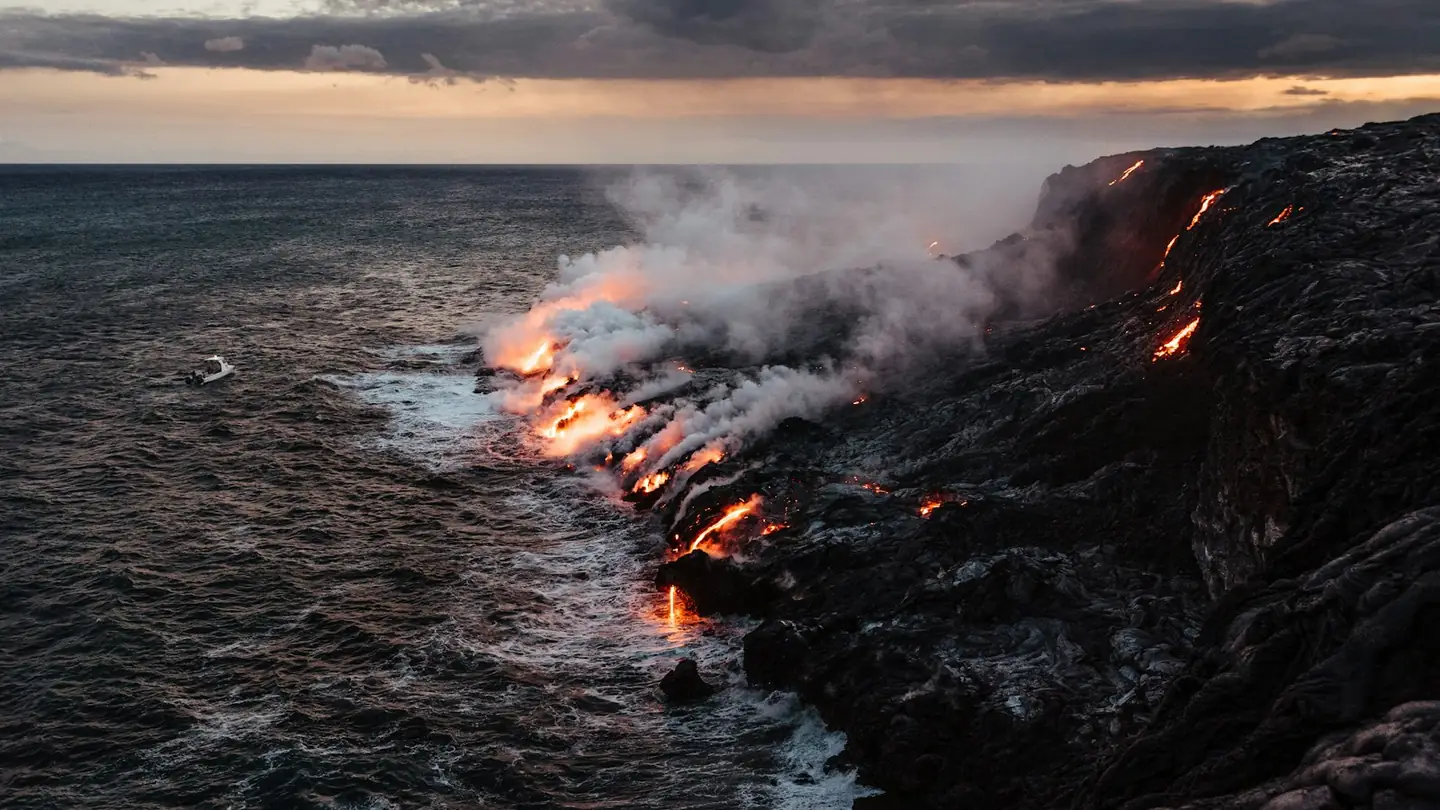
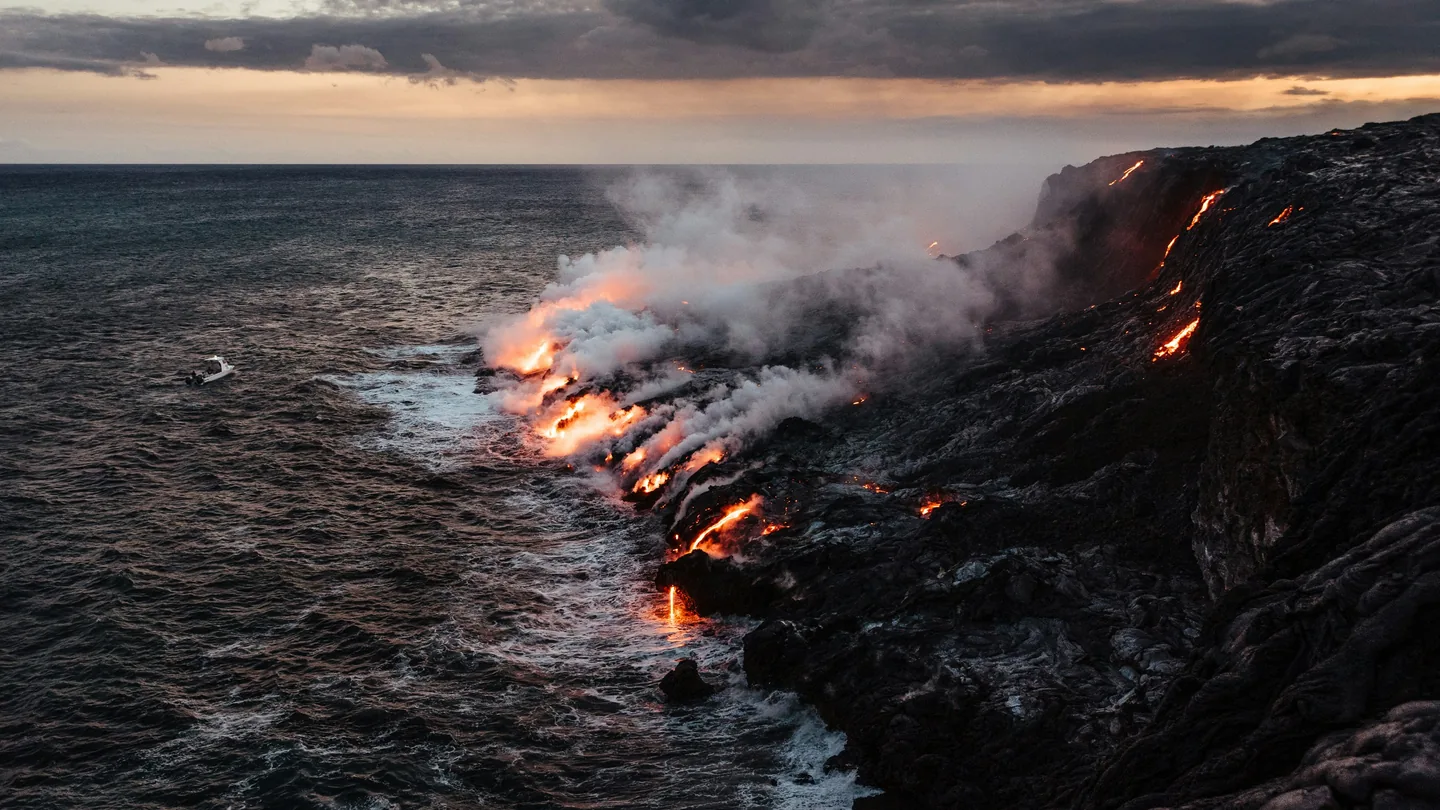
[Aumakua Defense] Sharpen the scenic photos and cut layout shift
Serve the same four Unsplash scenes at 2880px plus portrait phone crops, swap the copper mark and favicon for sized WebP files, and keep below-the-fold reveals and ember work off the idle path.

diff --git a/index.html b/index.html
@@ -7,9 +7,10 @@
   <meta name="robots" content="noindex">
   <title>Aumakua Defense</title>
   <meta name="description" content="Aumakua Defense. Where Ancient Protection Meets Modern Precision. Prototype storefront. Product names and prices have not been supplied. Photographs are labeled examples.">
-  <link rel="preload" as="image" href="assets/photos/hero-forest-1440.webp" imagesrcset="assets/photos/hero-forest-960.webp 960w, assets/photos/hero-forest-1440.webp 1440w, assets/photos/hero-forest-1920.webp 1920w" imagesizes="100vw">
+  <link rel="preload" as="image" href="assets/photos/hero-forest-phone.webp" media="(max-width: 759px)">
+  <link rel="preload" as="image" href="assets/photos/hero-forest-2880.webp" imagesrcset="assets/photos/hero-forest-1440.webp 1440w, assets/photos/hero-forest-1920.webp 1920w, assets/photos/hero-forest-2880.webp 2880w" imagesizes="200vw" media="(min-width: 760px)">
   <link rel="canonical" href="https://aumakuadefense.clientreview.co/index.html">
-  <link rel="icon" href="assets/logo/aumakua-mark-white.png">
+  <link rel="icon" href="assets/logo/favicon.png">
   <link rel="preconnect" href="https://fonts.googleapis.com">
   <link rel="preconnect" href="https://fonts.gstatic.com" crossorigin>
   <link href="https://fonts.googleapis.com/css2?family=Barlow:wght@400;500;600&family=Saira+Condensed:wght@500;600;700&display=swap" rel="stylesheet">
@@ -29,8 +30,14 @@
   <main id="main">
     <section class="hero hero-home">
       <div class="hero-layers">
-        <img class="hero-layer hero-layer-far" src="assets/photos/hero-forest-1440.webp" srcset="assets/photos/hero-forest-960.webp 960w, assets/photos/hero-forest-1440.webp 1440w, assets/photos/hero-forest-1920.webp 1920w" sizes="100vw" alt="" width="1440" height="810" fetchpriority="high" decoding="async">
-        <img class="hero-layer hero-layer-near" src="assets/photos/hero-pines-1440.webp" srcset="assets/photos/hero-pines-960.webp 960w, assets/photos/hero-pines-1440.webp 1440w, assets/photos/hero-pines-1920.webp 1920w" sizes="100vw" alt="" width="1440" height="810" fetchpriority="low" decoding="async">
+        <picture>
+          <source media="(max-width: 759px)" srcset="assets/photos/hero-forest-phone.webp" type="image/webp">
+          <img class="hero-layer hero-layer-far" src="assets/photos/hero-forest-1920.webp" srcset="assets/photos/hero-forest-1440.webp 1440w, assets/photos/hero-forest-1920.webp 1920w, assets/photos/hero-forest-2880.webp 2880w" sizes="200vw" alt="" width="2880" height="1620" fetchpriority="high" decoding="async">
+        </picture>
+        <picture>
+          <source media="(max-width: 759px)" srcset="assets/photos/hero-pines-phone.webp" type="image/webp">
+          <img class="hero-layer hero-layer-near" src="assets/photos/hero-pines-1920.webp" srcset="assets/photos/hero-pines-1440.webp 1440w, assets/photos/hero-pines-1920.webp 1920w, assets/photos/hero-pines-2880.webp 2880w" sizes="150vw" alt="" width="2880" height="1620" fetchpriority="low" decoding="async">
+        </picture>
         <div class="hero-overlay"></div>
       </div>
       <canvas class="hero-embers" id="hero-embers" aria-hidden="true"></canvas>
@@ -50,7 +57,10 @@
         </div>
         <div class="hero-mark">
           <div class="mark-frame">
-            <img src="assets/logo/aumakua-mark-copper.png" alt="">
+            <picture>
+              <source media="(max-width: 1023px)" srcset="assets/logo/aumakua-mark-copper-800.webp" type="image/webp">
+              <img src="assets/logo/aumakua-mark-copper.webp" srcset="assets/logo/aumakua-mark-copper-800.webp 800w, assets/logo/aumakua-mark-copper.webp 1932w" sizes="(min-width: 1200px) 70vw, 50vw" alt="" width="1932" height="1220" decoding="async">
+            </picture>
             <span class="mark-sheen" aria-hidden="true"></span>
           </div>
         </div>
@@ -64,7 +74,10 @@
     </div>
     <section class="room room-ink story reveal">
       <div class="story-bg" aria-hidden="true">
-        <img src="assets/photos/hawaii-ridge-960.webp" srcset="assets/photos/hawaii-ridge-960.webp 960w, assets/photos/hawaii-ridge-1440.webp 1440w" sizes="100vw" alt="" width="960" height="540" loading="lazy" decoding="async">
+        <picture>
+          <source media="(max-width: 759px)" srcset="assets/photos/hawaii-ridge-phone.webp" type="image/webp">
+          <img src="assets/photos/hawaii-ridge-1920.webp" srcset="assets/photos/hawaii-ridge-1440.webp 1440w, assets/photos/hawaii-ridge-1920.webp 1920w, assets/photos/hawaii-ridge-2880.webp 2880w" sizes="150vw" alt="" width="2880" height="1620" loading="lazy" decoding="async">
+        </picture>
       </div>
       <div class="story-shade" aria-hidden="true"></div>
       <div class="room-inner story-copy">
@@ -126,7 +139,10 @@
       </div>
     </section>
     <section class="gear-cta reveal">
-      <img class="gear-bg" src="assets/photos/lava-960.webp" srcset="assets/photos/lava-960.webp 960w, assets/photos/lava-1440.webp 1440w" sizes="100vw" alt="" width="960" height="540" loading="lazy" decoding="async">
+      <picture>
+        <source media="(max-width: 759px)" srcset="assets/photos/lava-phone.webp" type="image/webp">
+        <img class="gear-bg" src="assets/photos/lava-1920.webp" srcset="assets/photos/lava-1440.webp 1440w, assets/photos/lava-1920.webp 1920w, assets/photos/lava-2880.webp 2880w" sizes="150vw" alt="" width="2880" height="1620" loading="lazy" decoding="async">
+      </picture>
       <div class="gear-shade" aria-hidden="true"></div>
       <div class="room-inner">
         <p class="kicker">The shop</p>

diff --git a/js/layout.js b/js/layout.js
@@ -36,7 +36,7 @@
   header.innerHTML =
     '<div class="site-bar">' +
       '<a class="logo" href="index.html">' +
-        '<img class="logo-mark" src="assets/logo/aumakua-mark-copper.png" alt="Aumakua Defense">' +
+        '<img class="logo-mark" src="assets/logo/aumakua-mark-copper-320.webp" width="1932" height="1220" alt="Aumakua Defense">' +
         '<img class="logo-word" src="assets/logo/aumakua-wordmark-copper-2x.png" alt="">' +
       "</a>" +
       '<button class="nav-toggle" type="button" aria-expanded="false" aria-controls="site-nav">' + icon("menu") + '<span>Menu</span></button>' +
@@ -122,7 +122,7 @@
   function questionView() {
     gate.innerHTML =
       '<div class="age-card">' +
-        '<img src="assets/logo/aumakua-mark-copper.png" alt="Aumakua Defense">' +
+        '<img src="assets/logo/aumakua-mark-copper-800.webp" width="1932" height="1220" alt="Aumakua Defense">' +
         '<h2 id="age-title">You must be 21 or older to enter this site</h2>' +
         '<div class="age-actions">' +
           '<button type="button" class="btn" id="age-yes">I am 21 or older</button>' +
@@ -141,7 +141,7 @@
   function exitView() {
     gate.innerHTML =
       '<div class="age-card">' +
-        '<img src="assets/logo/aumakua-mark-copper.png" alt="Aumakua Defense">' +
+        '<img src="assets/logo/aumakua-mark-copper-800.webp" width="1932" height="1220" alt="Aumakua Defense">' +
         '<h2 id="age-title">Please come back when you are 21 or older</h2>' +
         '<p>This site is limited to visitors who are 21 or older. You can close this tab to leave.</p>' +
         '<div class="age-actions">' +
@@ -237,19 +237,27 @@
   }
   document.addEventListener("DOMContentLoaded", initReveal);
   setTimeout(function () {
+    function shown(el) {
+      if (!el || !el.getBoundingClientRect) return false;
+      var rect = el.getBoundingClientRect();
+      return rect.bottom > 0 && rect.top < window.innerHeight;
+    }
     if (window.ScrollTrigger) {
       window.ScrollTrigger.getAll().forEach(function (trigger) {
+        if (!shown(trigger.trigger)) return;
         if (trigger.animation) trigger.animation.progress(1);
         trigger.kill();
       });
     }
     Array.prototype.forEach.call(document.querySelectorAll(".reveal"), function (el) {
+      if (!shown(el)) return;
       el.classList.add("is-in");
       el.style.removeProperty("opacity");
       el.style.removeProperty("transform");
       el.style.removeProperty("visibility");
     });
     Array.prototype.forEach.call(document.querySelectorAll("[data-count]"), function (el) {
+      if (!shown(el)) return;
       var finalValue = el.getAttribute("data-count");
       if (finalValue) el.textContent = finalValue;
     });

diff --git a/css/site.css b/css/site.css
@@ -12,6 +12,13 @@ body {
   font-weight: 400;
 }
 body.age-lock { overflow: hidden; }
+/* Reserve banner + header + weave until layout.js inserts them, so #main does not jump. */
+html.js body:not(:has(> .site-header)) {
+  padding-top: calc(var(--header-h) + 73px);
+}
+html.js body[data-page="deck"]:not(:has(> .site-header)) {
+  padding-top: calc(var(--header-h) + 49px);
+}
 img { max-width: 100%; height: auto; }
 a { color: #DF9A73; }
 a:hover { color: var(--copper-bright); }
@@ -262,6 +269,7 @@ main { display: block; }
 }
 .hero-home h1 span {
   display: block;
+  white-space: nowrap;
   animation: rise 800ms cubic-bezier(.2, .7, .1, 1) both;
 }
 .hero-home h1 span:nth-child(2) { animation-delay: 90ms; }
@@ -287,14 +295,20 @@ main { display: block; }
   background: linear-gradient(105deg, transparent 40%, rgba(247, 186, 150, 0.55) 50%, transparent 60%);
   background-size: 300% 100%;
   background-position: 100% 0;
-  -webkit-mask-image: url("../assets/logo/aumakua-mark-copper.png");
-  mask-image: url("../assets/logo/aumakua-mark-copper.png");
+  -webkit-mask-image: url("../assets/logo/aumakua-mark-copper-800.webp");
+  mask-image: url("../assets/logo/aumakua-mark-copper-800.webp");
   -webkit-mask-size: 100% 100%;
   mask-size: 100% 100%;
   -webkit-mask-repeat: no-repeat;
   mask-repeat: no-repeat;
   transform: none;
   animation: mark-sheen 1400ms ease-in-out 200ms 1 both;
+}
+@media (min-width: 1200px) {
+  .mark-sheen {
+    -webkit-mask-image: url("../assets/logo/aumakua-mark-copper.webp");
+    mask-image: url("../assets/logo/aumakua-mark-copper.webp");
+  }
 }
 .hero-actions {
   display: flex;
@@ -324,6 +338,13 @@ main { display: block; }
 .gear-bg {
   position: absolute;
   inset: 0;
+}
+.hero-layers picture,
+.story-bg picture,
+.gear-cta > picture,
+.hero-about > picture,
+.mark-frame picture {
+  display: contents;
 }
 .hero-layers { z-index: 0; overflow: hidden; }
 .hero-layer {
@@ -756,6 +777,7 @@ textarea[aria-invalid="true"] {
   display: block;
   width: min(220px, 50vw);
   height: auto;
+  aspect-ratio: 1932 / 1220;
   max-height: none;
   margin: 0 auto 16px;
   object-fit: contain;

diff --git a/js/motion.js b/js/motion.js
@@ -10,7 +10,7 @@
     if (!canvas || !canvas.getContext) return;
     var ctx = canvas.getContext("2d");
     var mobileQuery = window.matchMedia("(max-width: 700px)");
-    var count = mobileQuery.matches ? 14 : 32;
+    var count = mobileQuery.matches ? 6 : 14;
     var dots = [];
     var width = 0;
     var height = 0;
@@ -35,7 +35,7 @@
 
     function size() {
       var rect = canvas.getBoundingClientRect();
-      var dpr = Math.min(window.devicePixelRatio || 1, 1.5);
+      var dpr = Math.min(window.devicePixelRatio || 1, mobileQuery.matches ? 1 : 1.25);
       width = Math.max(1, rect.width);
       height = Math.max(1, rect.height);
       canvas.width = Math.round(width * dpr);
@@ -49,15 +49,21 @@
       frameId = 0;
     }
 
-    function tick() {
+    var last = 0;
+    function tick(now) {
       if (!running) return;
+      frameId = requestAnimationFrame(tick);
+      if (!last) last = now;
+      if (now - last < 50) return;
+      var step = Math.min((now - last) / 16.7, 4);
+      last = now;
       ctx.clearRect(0, 0, width, height);
       var i;
       for (i = 0; i < dots.length; i += 1) {
         var dot = dots[i];
-        dot.y -= dot.v;
-        dot.drift += 0.012;
-        dot.x += Math.sin(dot.drift) * 0.0007;
+        dot.y -= dot.v * step;
+        dot.drift += 0.012 * step;
+        dot.x += Math.sin(dot.drift) * 0.0007 * step;
         if (dot.y < -0.03) {
           dot.y = 1.03;
           dot.x = Math.random();
@@ -67,7 +73,6 @@
         ctx.arc(dot.x * width, dot.y * height, dot.r, 0, Math.PI * 2);
         ctx.fill();
       }
-      frameId = requestAnimationFrame(tick);
     }
 
     function start() {
@@ -80,7 +85,7 @@
     size();
     window.addEventListener("resize", size);
     mobileQuery.addEventListener("change", function () {
-      count = mobileQuery.matches ? 14 : 32;
+      count = mobileQuery.matches ? 6 : 14;
       seed();
     });
     document.addEventListener("visibilitychange", function () {

diff --git a/about.html b/about.html
@@ -8,7 +8,7 @@
   <title>About — Aumakua Defense</title>
   <meta name="description" content="About Aumakua Defense. The owner story has not been supplied. The name is framed as a guardian spirit, pending client approval.">
   <link rel="canonical" href="https://aumakuadefense.clientreview.co/about.html">
-  <link rel="icon" href="assets/logo/aumakua-mark-white.png">
+  <link rel="icon" href="assets/logo/favicon.png">
   <link rel="preconnect" href="https://fonts.googleapis.com">
   <link rel="preconnect" href="https://fonts.gstatic.com" crossorigin>
   <link href="https://fonts.googleapis.com/css2?family=Barlow:wght@400;500;600&family=Saira+Condensed:wght@500;600;700&display=swap" rel="stylesheet">
@@ -18,7 +18,10 @@
 <body data-page="about">
   <main id="main">
     <section class="hero hero-about">
-      <img class="hero-about-photo" src="assets/photos/hawaii-ridge-1440.webp" srcset="assets/photos/hawaii-ridge-960.webp 960w, assets/photos/hawaii-ridge-1440.webp 1440w" sizes="100vw" alt="" width="1440" height="810" fetchpriority="high" decoding="async">
+      <picture>
+        <source media="(max-width: 759px)" srcset="assets/photos/hawaii-ridge-phone.webp" type="image/webp">
+        <img class="hero-about-photo" src="assets/photos/hawaii-ridge-1920.webp" srcset="assets/photos/hawaii-ridge-1440.webp 1440w, assets/photos/hawaii-ridge-1920.webp 1920w, assets/photos/hawaii-ridge-2880.webp 2880w" sizes="150vw" alt="" width="2880" height="1620" fetchpriority="high" decoding="async">
+      </picture>
       <div class="hero-overlay"></div>
       <div class="hero-copy">
         <p class="kicker">About</p>

diff --git a/AumakuaDefense-Presentation.html b/AumakuaDefense-Presentation.html
@@ -8,7 +8,7 @@
   <title>Presentation — Aumakua Defense</title>
   <meta name="description" content="Nine-slide review deck for the Aumakua Defense prototype. SEO and AEO figures are from the 13 October 2026 compare.">
   <link rel="canonical" href="https://aumakuadefense.clientreview.co/AumakuaDefense-Presentation.html">
-  <link rel="icon" href="assets/logo/aumakua-mark-white.png">
+  <link rel="icon" href="assets/logo/favicon.png">
   <link rel="preconnect" href="https://fonts.googleapis.com">
   <link rel="preconnect" href="https://fonts.gstatic.com" crossorigin>
   <link href="https://fonts.googleapis.com/css2?family=Barlow:wght@400;500;600&family=Saira+Condensed:wght@500;600;700&display=swap" rel="stylesheet">

diff --git a/brand.html b/brand.html
@@ -8,7 +8,7 @@
   <title>Brand standards — Aumakua Defense</title>
   <meta name="description" content="Brand standards for Aumakua Defense. Logo files, sampled copper, and proposed military green, type, and voice. October 2026.">
   <link rel="canonical" href="https://aumakuadefense.clientreview.co/brand.html">
-  <link rel="icon" href="assets/logo/aumakua-mark-copper.png">
+  <link rel="icon" href="assets/logo/favicon.png">
   <link rel="preconnect" href="https://fonts.googleapis.com">
   <link rel="preconnect" href="https://fonts.gstatic.com" crossorigin>
   <link href="https://fonts.googleapis.com/css2?family=Barlow:wght@400;500;600&family=Saira+Condensed:wght@500;600;700&display=swap" rel="stylesheet">

diff --git a/shop.html b/shop.html
@@ -8,7 +8,7 @@
   <title>Shop — Aumakua Defense</title>
   <meta name="description" content="Aumakua Defense shop. Accessories for everyday carry, holsters, grips, and lights. Prices and photos have not been supplied.">
   <link rel="canonical" href="https://aumakuadefense.clientreview.co/shop.html">
-  <link rel="icon" href="assets/logo/aumakua-mark-white.png">
+  <link rel="icon" href="assets/logo/favicon.png">
   <link rel="preconnect" href="https://fonts.googleapis.com">
   <link rel="preconnect" href="https://fonts.gstatic.com" crossorigin>
   <link href="https://fonts.googleapis.com/css2?family=Barlow:wght@400;500;600&family=Saira+Condensed:wght@500;600;700&display=swap" rel="stylesheet">

diff --git a/category.html b/category.html
@@ -8,7 +8,7 @@
   <title>Accessories — Aumakua Defense</title>
   <meta name="description" content="Aumakua Defense accessories. Filter by EDC, holsters, grips, or lights. Names and prices have not been supplied.">
   <link rel="canonical" href="https://aumakuadefense.clientreview.co/category.html">
-  <link rel="icon" href="assets/logo/aumakua-mark-white.png">
+  <link rel="icon" href="assets/logo/favicon.png">
   <link rel="preconnect" href="https://fonts.googleapis.com">
   <link rel="preconnect" href="https://fonts.gstatic.com" crossorigin>
   <link href="https://fonts.googleapis.com/css2?family=Barlow:wght@400;500;600&family=Saira+Condensed:wght@500;600;700&display=swap" rel="stylesheet">

diff --git a/performance.html b/performance.html
@@ -8,7 +8,7 @@
   <title>Performance report — Aumakua Defense</title>
   <meta name="description" content="Performance report for the Aumakua Defense prototype. Scores are shown only after a real measurement.">
   <link rel="canonical" href="https://aumakuadefense.clientreview.co/performance.html">
-  <link rel="icon" href="assets/logo/aumakua-mark-white.png">
+  <link rel="icon" href="assets/logo/favicon.png">
   <link rel="preconnect" href="https://fonts.googleapis.com">
   <link rel="preconnect" href="https://fonts.gstatic.com" crossorigin>
   <link href="https://fonts.googleapis.com/css2?family=Barlow:wght@400;500;600&family=Saira+Condensed:wght@500;600;700&display=swap" rel="stylesheet">

diff --git a/order-confirmation.html b/order-confirmation.html
@@ -8,7 +8,7 @@
   <title>Sample order — Aumakua Defense</title>
   <meta name="description" content="Sample order confirmation for the Aumakua Defense prototype. No payment is processed.">
   <link rel="canonical" href="https://aumakuadefense.clientreview.co/order-confirmation.html">
-  <link rel="icon" href="assets/logo/aumakua-mark-white.png">
+  <link rel="icon" href="assets/logo/favicon.png">
   <link rel="preconnect" href="https://fonts.googleapis.com">
   <link rel="preconnect" href="https://fonts.gstatic.com" crossorigin>
   <link href="https://fonts.googleapis.com/css2?family=Barlow:wght@400;500;600&family=Saira+Condensed:wght@500;600;700&display=swap" rel="stylesheet">

diff --git a/shipping.html b/shipping.html
@@ -8,7 +8,7 @@
   <title>Shipping — Aumakua Defense</title>
   <meta name="description" content="Shipping policy for Aumakua Defense has not been supplied. This page states no shipping rules.">
   <link rel="canonical" href="https://aumakuadefense.clientreview.co/shipping.html">
-  <link rel="icon" href="assets/logo/aumakua-mark-white.png">
+  <link rel="icon" href="assets/logo/favicon.png">
   <link rel="preconnect" href="https://fonts.googleapis.com">
   <link rel="preconnect" href="https://fonts.gstatic.com" crossorigin>
   <link href="https://fonts.googleapis.com/css2?family=Barlow:wght@400;500;600&family=Saira+Condensed:wght@500;600;700&display=swap" rel="stylesheet">
